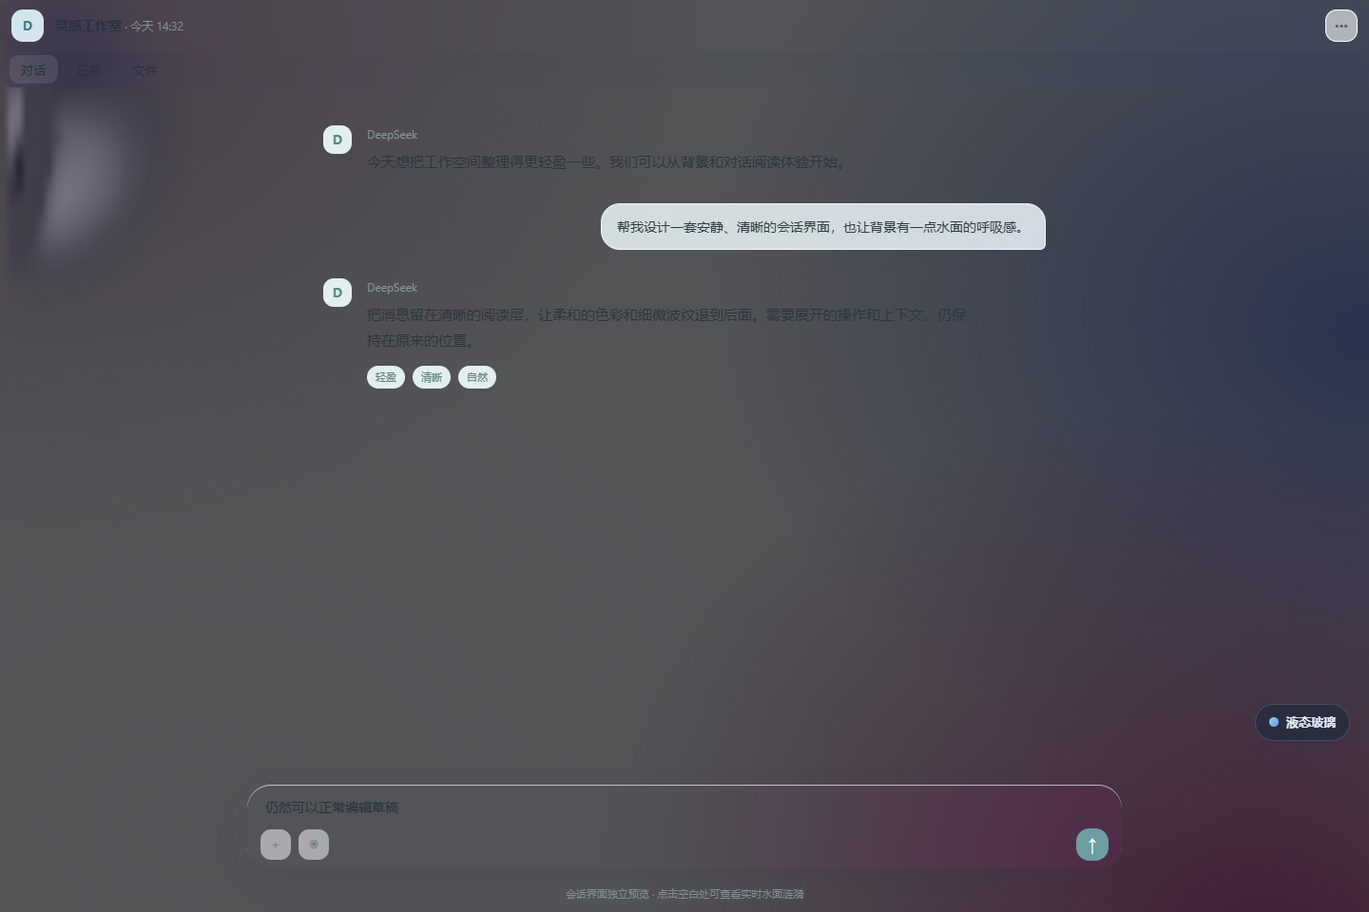
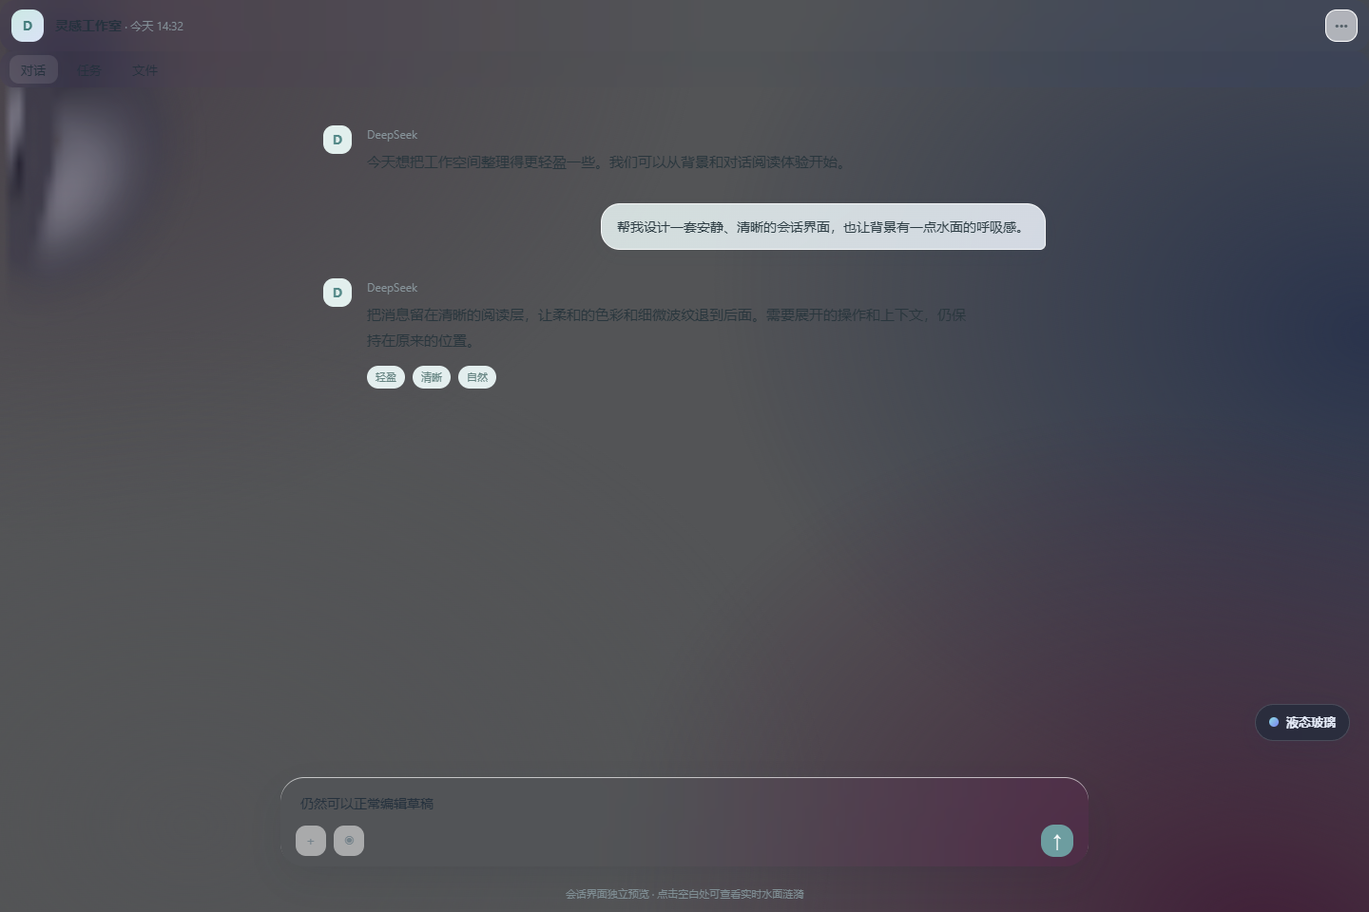
Release 0.6.2: style the native composer without nested glass frames

Changed region(s): [[0.1875, 0.875, 0.3125, 0.9375], [0.75, 0.9062, 0.8125, 0.9688]]

diff --git a/lib/client.js b/lib/client.js
@@ -446,7 +446,7 @@ body[data-dsh-session-design] [data-conversation-tabs] [role=tab]{min-height:30p
 body[data-dsh-session-design] [data-conversation-tabs] [role=tab][aria-selected=true]{color:var(--dsh-session-ink);background:#ffffff9c;box-shadow:0 2px 7px #14243214}
 body[data-dsh-session-design][data-ds-dark-theme] [data-conversation-tabs] [role=tab][aria-selected=true]{background:#ffffff18}
 body[data-dsh-session-design] [data-conversation-region=chat]{padding-inline:clamp(16px,4vw,64px)}
-body[data-dsh-session-design] [data-conversation-region=composer]{margin-inline:auto;margin-bottom:18px;width:min(920px,calc(100% - 40px));padding:8px 14px;border:1px solid var(--dsh-session-line);border-radius:25px;background:var(--dsh-session-glass);backdrop-filter:blur(24px) saturate(155%);box-shadow:0 14px 42px #14252e18,inset 0 1px 0 #ffffffa8}
+body[data-dsh-session-design] [data-composer-card][data-conversation-region=composer]{border:1px solid var(--dsh-session-line);border-radius:25px;background:var(--dsh-session-glass);backdrop-filter:blur(24px) saturate(155%);box-shadow:0 14px 42px #14252e18,inset 0 1px 0 #ffffffa8}
 body[data-dsh-session-design] [data-conversation-region=composer] [contenteditable=true]{color:var(--dsh-session-ink)}
 body[data-dsh-session-design] [data-conversation-region=composer] button[aria-label*=Send],body[data-dsh-session-design] [data-conversation-region=composer] button[aria-label*=发送]{border-radius:14px}
 body[data-dsh-session-design] [data-chat-flow-kind=user]>div,body[data-dsh-session-design] [data-chat-flow-kind=steering]>div{max-width:min(78%,680px);padding:12px 16px;border:1px solid #ffffffba;border-radius:20px 20px 6px 20px;background:linear-gradient(145deg,#e7f3f1dc,#eaf0f9dd);box-shadow:0 6px 20px #27444b0c}
@@ -634,21 +634,17 @@ body[data-ds-dark-theme][${FLUID_ATTR}]{${colorRules(true)}}` + CSS;
   }
   function discoverSession() {
     if (!config.sessionDesign) return;
-    const editor = document.querySelector('[contenteditable="true"],[role="textbox"],textarea');
-    if (!editor) return;
-    const viewport = innerWidth * innerHeight;
-    let composer;
-    let scrollRegion;
-    let current = editor;
-    for (let depth = 0; current?.parentElement && depth < 9; depth++) {
-      current = current.parentElement;
-      const rect = current.getBoundingClientRect();
-      if (!composer && rect.width >= Math.min(240, innerWidth * .32) && rect.height >= 64 && rect.height <= Math.min(280, innerHeight * .42)) composer = current;
-      if (composer) break;
+    const composer = document.querySelector('[data-composer-card]');
+    for (const node of sessionMarked) {
+      if (node !== composer && node.getAttribute('data-conversation-region') === 'composer') node.removeAttribute('data-conversation-region');
+      if (!node.isConnected) sessionMarked.delete(node);
     }
+    if (!composer) return;
+    const viewport = innerWidth * innerHeight;
+    let scrollRegion;
     const composerRect = composer?.getBoundingClientRect();
     if (composerRect) for (const candidate of document.querySelectorAll('main,section,div')) {
-      if (candidate.contains(editor) || candidate.contains(composer)) continue;
+      if (candidate.contains(composer) || composer.contains(candidate)) continue;
       const rect = candidate.getBoundingClientRect();
       const overflow = getComputedStyle(candidate).overflowY;
       if (rect.width < 180 || rect.height < innerHeight * .24 || rect.width * rect.height < viewport * .04 || rect.top >= composerRect.top || !/auto|scroll|overlay/.test(overflow)) continue;
@@ -685,8 +681,12 @@ body[data-ds-dark-theme][${FLUID_ATTR}]{${colorRules(true)}}` + CSS;
     if (!document.body || (!config.enabled && !config.sessionDesign)) return;
     if (config.sessionDesign) discoverSession();
     if (!config.enabled) return;
-    discoverSession();
-    for (const node of marked) if (!node.isConnected) marked.delete(node);
+    const composer = document.querySelector('[data-composer-card]');
+    const overlapsComposer = node => composer && node !== composer && (node.contains(composer) || composer.contains(node));
+    for (const node of marked) if (!node.isConnected || overlapsComposer(node)) {
+      node.removeAttribute(SURFACE_ATTR);
+      marked.delete(node);
+    }
     // ponytail: bound one scan to 1,600 nodes / 100 surfaces; expand only if real layouts need it.
     const walker = document.createTreeWalker(document.body, NodeFilter.SHOW_ELEMENT, {
       acceptNode(node) {
@@ -697,7 +697,7 @@ body[data-ds-dark-theme][${FLUID_ATTR}]{${colorRules(true)}}` + CSS;
     let node;
     let inspected = 0;
     while ((node = walker.nextNode()) && ++inspected <= 1600 && marked.size < 100) {
-      if (marked.has(node)) continue;
+      if (marked.has(node) || overlapsComposer(node)) continue;
       const rect = node.getBoundingClientRect();
       if (rect.width < 72 || rect.height < 32 || rect.width * rect.height < 4000) continue;
       const css = getComputedStyle(node);

diff --git a/lib/glass-client.js b/lib/glass-client.js
@@ -443,7 +443,7 @@ body[data-dsh-session-design] [data-conversation-tabs] [role=tab]{min-height:30p
 body[data-dsh-session-design] [data-conversation-tabs] [role=tab][aria-selected=true]{color:var(--dsh-session-ink);background:#ffffff9c;box-shadow:0 2px 7px #14243214}
 body[data-dsh-session-design][data-ds-dark-theme] [data-conversation-tabs] [role=tab][aria-selected=true]{background:#ffffff18}
 body[data-dsh-session-design] [data-conversation-region=chat]{padding-inline:clamp(16px,4vw,64px)}
-body[data-dsh-session-design] [data-conversation-region=composer]{margin-inline:auto;margin-bottom:18px;width:min(920px,calc(100% - 40px));padding:8px 14px;border:1px solid var(--dsh-session-line);border-radius:25px;background:var(--dsh-session-glass);backdrop-filter:blur(24px) saturate(155%);box-shadow:0 14px 42px #14252e18,inset 0 1px 0 #ffffffa8}
+body[data-dsh-session-design] [data-composer-card][data-conversation-region=composer]{border:1px solid var(--dsh-session-line);border-radius:25px;background:var(--dsh-session-glass);backdrop-filter:blur(24px) saturate(155%);box-shadow:0 14px 42px #14252e18,inset 0 1px 0 #ffffffa8}
 body[data-dsh-session-design] [data-conversation-region=composer] [contenteditable=true]{color:var(--dsh-session-ink)}
 body[data-dsh-session-design] [data-conversation-region=composer] button[aria-label*=Send],body[data-dsh-session-design] [data-conversation-region=composer] button[aria-label*=发送]{border-radius:14px}
 body[data-dsh-session-design] [data-chat-flow-kind=user]>div,body[data-dsh-session-design] [data-chat-flow-kind=steering]>div{max-width:min(78%,680px);padding:12px 16px;border:1px solid #ffffffba;border-radius:20px 20px 6px 20px;background:linear-gradient(145deg,#e7f3f1dc,#eaf0f9dd);box-shadow:0 6px 20px #27444b0c}
@@ -631,21 +631,17 @@ body[data-ds-dark-theme][${FLUID_ATTR}]{${colorRules(true)}}` + CSS;
   }
   function discoverSession() {
     if (!config.sessionDesign) return;
-    const editor = document.querySelector('[contenteditable="true"],[role="textbox"],textarea');
-    if (!editor) return;
-    const viewport = innerWidth * innerHeight;
-    let composer;
-    let scrollRegion;
-    let current = editor;
-    for (let depth = 0; current?.parentElement && depth < 9; depth++) {
-      current = current.parentElement;
-      const rect = current.getBoundingClientRect();
-      if (!composer && rect.width >= Math.min(240, innerWidth * .32) && rect.height >= 64 && rect.height <= Math.min(280, innerHeight * .42)) composer = current;
-      if (composer) break;
+    const composer = document.querySelector('[data-composer-card]');
+    for (const node of sessionMarked) {
+      if (node !== composer && node.getAttribute('data-conversation-region') === 'composer') node.removeAttribute('data-conversation-region');
+      if (!node.isConnected) sessionMarked.delete(node);
     }
+    if (!composer) return;
+    const viewport = innerWidth * innerHeight;
+    let scrollRegion;
     const composerRect = composer?.getBoundingClientRect();
     if (composerRect) for (const candidate of document.querySelectorAll('main,section,div')) {
-      if (candidate.contains(editor) || candidate.contains(composer)) continue;
+      if (candidate.contains(composer) || composer.contains(candidate)) continue;
       const rect = candidate.getBoundingClientRect();
       const overflow = getComputedStyle(candidate).overflowY;
       if (rect.width < 180 || rect.height < innerHeight * .24 || rect.width * rect.height < viewport * .04 || rect.top >= composerRect.top || !/auto|scroll|overlay/.test(overflow)) continue;
@@ -682,8 +678,12 @@ body[data-ds-dark-theme][${FLUID_ATTR}]{${colorRules(true)}}` + CSS;
     if (!document.body || (!config.enabled && !config.sessionDesign)) return;
     if (config.sessionDesign) discoverSession();
     if (!config.enabled) return;
-    discoverSession();
-    for (const node of marked) if (!node.isConnected) marked.delete(node);
+    const composer = document.querySelector('[data-composer-card]');
+    const overlapsComposer = node => composer && node !== composer && (node.contains(composer) || composer.contains(node));
+    for (const node of marked) if (!node.isConnected || overlapsComposer(node)) {
+      node.removeAttribute(SURFACE_ATTR);
+      marked.delete(node);
+    }
     // ponytail: bound one scan to 1,600 nodes / 100 surfaces; expand only if real layouts need it.
     const walker = document.createTreeWalker(document.body, NodeFilter.SHOW_ELEMENT, {
       acceptNode(node) {
@@ -694,7 +694,7 @@ body[data-ds-dark-theme][${FLUID_ATTR}]{${colorRules(true)}}` + CSS;
     let node;
     let inspected = 0;
     while ((node = walker.nextNode()) && ++inspected <= 1600 && marked.size < 100) {
-      if (marked.has(node)) continue;
+      if (marked.has(node) || overlapsComposer(node)) continue;
       const rect = node.getBoundingClientRect();
       if (rect.width < 72 || rect.height < 32 || rect.width * rect.height < 4000) continue;
       const css = getComputedStyle(node);

diff --git a/src/client.js b/src/client.js
@@ -218,7 +218,7 @@ body[data-dsh-session-design] [data-conversation-tabs] [role=tab]{min-height:30p
 body[data-dsh-session-design] [data-conversation-tabs] [role=tab][aria-selected=true]{color:var(--dsh-session-ink);background:#ffffff9c;box-shadow:0 2px 7px #14243214}
 body[data-dsh-session-design][data-ds-dark-theme] [data-conversation-tabs] [role=tab][aria-selected=true]{background:#ffffff18}
 body[data-dsh-session-design] [data-conversation-region=chat]{padding-inline:clamp(16px,4vw,64px)}
-body[data-dsh-session-design] [data-conversation-region=composer]{margin-inline:auto;margin-bottom:18px;width:min(920px,calc(100% - 40px));padding:8px 14px;border:1px solid var(--dsh-session-line);border-radius:25px;background:var(--dsh-session-glass);backdrop-filter:blur(24px) saturate(155%);box-shadow:0 14px 42px #14252e18,inset 0 1px 0 #ffffffa8}
+body[data-dsh-session-design] [data-composer-card][data-conversation-region=composer]{border:1px solid var(--dsh-session-line);border-radius:25px;background:var(--dsh-session-glass);backdrop-filter:blur(24px) saturate(155%);box-shadow:0 14px 42px #14252e18,inset 0 1px 0 #ffffffa8}
 body[data-dsh-session-design] [data-conversation-region=composer] [contenteditable=true]{color:var(--dsh-session-ink)}
 body[data-dsh-session-design] [data-conversation-region=composer] button[aria-label*=Send],body[data-dsh-session-design] [data-conversation-region=composer] button[aria-label*=发送]{border-radius:14px}
 body[data-dsh-session-design] [data-chat-flow-kind=user]>div,body[data-dsh-session-design] [data-chat-flow-kind=steering]>div{max-width:min(78%,680px);padding:12px 16px;border:1px solid #ffffffba;border-radius:20px 20px 6px 20px;background:linear-gradient(145deg,#e7f3f1dc,#eaf0f9dd);box-shadow:0 6px 20px #27444b0c}
@@ -406,21 +406,17 @@ body[data-ds-dark-theme][${FLUID_ATTR}]{${colorRules(true)}}` + CSS;
   }
   function discoverSession() {
     if (!config.sessionDesign) return;
-    const editor = document.querySelector('[contenteditable="true"],[role="textbox"],textarea');
-    if (!editor) return;
-    const viewport = innerWidth * innerHeight;
-    let composer;
-    let scrollRegion;
-    let current = editor;
-    for (let depth = 0; current?.parentElement && depth < 9; depth++) {
-      current = current.parentElement;
-      const rect = current.getBoundingClientRect();
-      if (!composer && rect.width >= Math.min(240, innerWidth * .32) && rect.height >= 64 && rect.height <= Math.min(280, innerHeight * .42)) composer = current;
-      if (composer) break;
+    const composer = document.querySelector('[data-composer-card]');
+    for (const node of sessionMarked) {
+      if (node !== composer && node.getAttribute('data-conversation-region') === 'composer') node.removeAttribute('data-conversation-region');
+      if (!node.isConnected) sessionMarked.delete(node);
     }
+    if (!composer) return;
+    const viewport = innerWidth * innerHeight;
+    let scrollRegion;
     const composerRect = composer?.getBoundingClientRect();
     if (composerRect) for (const candidate of document.querySelectorAll('main,section,div')) {
-      if (candidate.contains(editor) || candidate.contains(composer)) continue;
+      if (candidate.contains(composer) || composer.contains(candidate)) continue;
       const rect = candidate.getBoundingClientRect();
       const overflow = getComputedStyle(candidate).overflowY;
       if (rect.width < 180 || rect.height < innerHeight * .24 || rect.width * rect.height < viewport * .04 || rect.top >= composerRect.top || !/auto|scroll|overlay/.test(overflow)) continue;
@@ -457,8 +453,12 @@ body[data-ds-dark-theme][${FLUID_ATTR}]{${colorRules(true)}}` + CSS;
     if (!document.body || (!config.enabled && !config.sessionDesign)) return;
     if (config.sessionDesign) discoverSession();
     if (!config.enabled) return;
-    discoverSession();
-    for (const node of marked) if (!node.isConnected) marked.delete(node);
+    const composer = document.querySelector('[data-composer-card]');
+    const overlapsComposer = node => composer && node !== composer && (node.contains(composer) || composer.contains(node));
+    for (const node of marked) if (!node.isConnected || overlapsComposer(node)) {
+      node.removeAttribute(SURFACE_ATTR);
+      marked.delete(node);
+    }
     // ponytail: bound one scan to 1,600 nodes / 100 surfaces; expand only if real layouts need it.
     const walker = document.createTreeWalker(document.body, NodeFilter.SHOW_ELEMENT, {
       acceptNode(node) {
@@ -469,7 +469,7 @@ body[data-ds-dark-theme][${FLUID_ATTR}]{${colorRules(true)}}` + CSS;
     let node;
     let inspected = 0;
     while ((node = walker.nextNode()) && ++inspected <= 1600 && marked.size < 100) {
-      if (marked.has(node)) continue;
+      if (marked.has(node) || overlapsComposer(node)) continue;
       const rect = node.getBoundingClientRect();
       if (rect.width < 72 || rect.height < 32 || rect.width * rect.height < 4000) continue;
       const css = getComputedStyle(node);

diff --git a/test/session-fixture.html b/test/session-fixture.html
@@ -18,6 +18,6 @@
 <article class="user">帮我设计一套安静、清晰的会话界面，也让背景有一点水面的呼吸感。</article>
 <article class="assistant"><span class="avatar">D</span><div><div class="speaker">DeepSeek</div><div class="message">把消息留在清晰的阅读层，让柔和的色彩和细微波纹退到后面。需要展开的操作和上下文，仍保持在原来的位置。</div><div class="tags"><span>轻盈</span><span>清晰</span><span>自然</span></div></div></article>
 </div></section>
-<div class="seat"><div class="draft" contenteditable="true" role="textbox" aria-label="输入消息">继续对话…</div><div class="tools"><div class="toolgroup"><button class="tool" aria-label="添加附件">＋</button><button class="tool" aria-label="选择模式">◉</button></div><button class="send" aria-label="发送消息">↑</button></div></div>
+<div class="seat" data-composer-card><div class="draft" contenteditable="true" role="textbox" aria-label="输入消息">继续对话…</div><div class="tools"><div class="toolgroup"><button class="tool" aria-label="添加附件">＋</button><button class="tool" aria-label="选择模式">◉</button></div><button class="send" aria-label="发送消息">↑</button></div></div>
 <div class="footnote">会话界面独立预览 · 点击空白处可查看实时水面涟漪</div>
 </main></body></html>

diff --git a/README.md b/README.md
@@ -2,21 +2,21 @@
 
 A maintained compatibility fork of [Ink-bai5844/dsh-liquid-glass-fluid-background](https://github.com/Ink-bai5844/dsh-liquid-glass-fluid-background), with the original MIT license preserved. Maintained by **gtggdd4mzb-source**. [中文说明](README.zh.md)
 
-Version **0.6.1** targets **DeepSeek Harness 0.2.2-rc.5** (Desktop and Web). It adds a damped 2D finite-difference water surface activated by blank-background clicks, adjustable ripple strength, and an iOS-inspired skin for DSH's session header, transcript and composer. Blank transcript space is interactive, while message editors and controls keep their normal behavior. The existing palette studio, moving color field, rounded-edge SVG refraction and whale startup animation remain available. Water waves are numerically simulated and shaded from their surface normals; the effect is a bounded browser approximation, not physical light transport or Apple's private renderer.
+Version **0.6.2** targets **DeepSeek Harness 0.2.2-rc.5** (Desktop and Web). This patch styles the host's native input card in place, preserves its layout and prevents glass decoration on nested composer wrappers. It keeps the damped 2D finite-difference water surface activated by blank-background clicks, adjustable ripple strength, and an iOS-inspired skin for DSH's session header, transcript and composer. Blank transcript space is interactive, while message editors and controls keep their normal behavior. The existing palette studio, moving color field, rounded-edge SVG refraction and whale startup animation remain available. Water waves are numerically simulated and shaded from their surface normals; the effect is a bounded browser approximation, not physical light transport or Apple's private renderer.
 
 ![DSH 0.2.2-rc.5 running the skin](assets/dsh-home.png)
 ![Settings on the real DSH frontend](assets/dsh-settings.png)
 
 These screenshots show the actual DSH 0.2.2-rc.5 Web frontend started from the installed Desktop bundle in a clean isolated profile. The additional `preview-light.png` / `preview-dark.png` images show the included test fixture, not the host application.
 
-The session-style screenshots and interactive preview use DSH 0.2.2-rc.5's actual semantic DOM markers with synthetic test messages; they are explicitly not captures of the Harness application.
+The session-style screenshots and interactive preview use synthetic host-shaped layouts and test messages; they are not captures of the Harness application.
 
 ## Install
 
 In the native Desktop app, install the release tarball from the Plugins page (the desktop profile is managed by Electron). In a Web profile, use the current Harness CLI:
 
 ```sh
-dsh plugin --profile web add https://github.com/gtggdd4mzb-source/dsh-liquid-glass-fluid-background/releases/download/v0.6.1/dsh-liquid-glass-fluid-background-0.6.1.tgz
+dsh plugin --profile web add https://github.com/gtggdd4mzb-source/dsh-liquid-glass-fluid-background/releases/download/v0.6.2/dsh-liquid-glass-fluid-background-0.6.2.tgz
 ```
 
 Fully restart Harness after the first installation. Open the **Liquid Glass** capsule near the lower-right corner.

diff --git a/COMPATIBILITY.md b/COMPATIBILITY.md
@@ -1,6 +1,6 @@
 # Compatibility evidence
 
-Validation date: 2026-11-26. Current plugin: **0.6.0**. Target: installed **DeepSeek Harness Desktop 0.2.2-rc.5**, containing **@deepseek-ai/dsh 0.2.2-rc.5** and **@deepseek-ai/cordis 4.1.0**. The unrelated global CLI was 0.1.2-rc.1 and was not used as the target.
+Validation date: 2026-11-27. Current plugin: **0.6.2**. Target: installed **DeepSeek Harness Desktop 0.2.2-rc.5**, containing **@deepseek-ai/dsh 0.2.2-rc.5** and **@deepseek-ai/cordis 4.1.0**. The unrelated global CLI was 0.1.2-rc.1 and was not used as the target.
 
 Verified:
 
@@ -16,5 +16,8 @@ Verified:
 - Native Windows 0.5.0: the installed client hash matched the built file. Relaunched the actual Desktop application, inspected the startup toggle and replay button, replayed the whale animation on screen, and confirmed it automatically returned to the working application. The user's existing glass preferences were preserved.
 - 0.6.0 session-design correction: the browser fixture no longer contains plugin-owned conversation markers. The client now discovers the real editor, composer, scrollable transcript, header, tabs and right-aligned user bubbles in the host DOM; the session skin remains independent of the glass master switch and removes only its own markers when disabled.
 - Native Windows 0.6.0: the existing Desktop process (0.2.2-rc.5) loaded the session settings and already-installed 0.6.0. The live conversation DOM exposed none of the fixture's `data-conversation-*` markers, confirming why the prior session skin was incomplete. Clicking empty transcript space produced a visible ripple in the actual Harness window. The new DOM discovery implementation still requires a fresh real-window check after reinstall.
+
+- 0.6.2 native composer correction: a host-shaped regression with nested wrappers verifies only the native card receives the composer skin, preserves width/padding, excludes wrapper/child glass surfaces, and survives 390/760/1280/1536 widths, tall drafts, card replacement, toggles, runtime replacement and disposal.
+- Native Windows 0.6.2 runtime: patched built files were applied to the existing installed 0.6.0 package and remounted through the host plugin switch. The live input card had one surface after switching to another existing conversation, maximizing/restoring, and returning to the original conversation. Package-manager upgrade to 0.6.2 was not used for this check; no private desktop captures or conversations are included in the release.
 
 Scope: this evidence verifies clean installation, real-host Web startup, native Windows Desktop display, plugin management and browser behavior. It does not claim a tour of every authenticated DSH screen or compatibility with every other installed theme, future Harness version, operating system or browser. Surface detection intentionally has a bounded budget and may leave unmatched regions unstyled.

diff --git a/README.zh.md b/README.zh.md
@@ -2,7 +2,7 @@
 
 这是 [Ink-bai5844 原插件](https://github.com/Ink-bai5844/dsh-liquid-glass-fluid-background) 的维护分支，保留原作者署名与 MIT 许可，由 **gtggdd4mzb-source** 维护。[English](README.md)
 
-**0.6.1** 面向 **DSH 0.2.2-rc.5 桌面端和 Web 端**。修复会话消息区空白处点击不触发涟漪的问题；编辑框、按钮和链接仍保留原有交互。会话皮肤会识别真实 DSH 页面结构，不再依赖测试预览专用标记。之前版本的四色调色盘、流动背景、边缘折射和鲸鱼启动动画继续保留。折射与波纹高光均为网页端数值/绘制近似，不是 iOS 私有渲染器或光线追踪；模拟计算水面高度并按法线着色，不会改变宿主消息内容或输入逻辑。
+**0.6.2** 面向 **DSH 0.2.2-rc.5 桌面端和 Web 端**。直接修改原生输入卡片的玻璃材质，保留原有宽度与工具栏布局，修复父子容器重复装饰导致的嵌套边框；保留会话消息区空白处点击涟漪修复。编辑框、按钮和链接仍保留原有交互。会话皮肤会识别真实 DSH 页面结构，不再依赖测试预览专用标记。之前版本的四色调色盘、流动背景、边缘折射和鲸鱼启动动画继续保留。折射与波纹高光均为网页端数值/绘制近似，不是 iOS 私有渲染器或光线追踪；模拟计算水面高度并按法线着色，不会改变宿主消息内容或输入逻辑。
 
 ![液态玻璃 DSH 会话界面预览](assets/session-light.png)
 ![液态玻璃 DSH 深色会话界面预览](assets/session-dark.png)
@@ -12,14 +12,14 @@
 
 以上为桌面安装包附带的 DSH 0.2.2-rc.5 Web 前端在干净隔离 profile 中的真实截图。另附的 `preview-light.png` / `preview-dark.png` 来自测试演示页，不是宿主运行截图。
 
-会话样式的 `session-light.png` / `session-dark.png` 与交互预览 HTML 使用 DSH 0.2.2-rc.5 的真实 DOM 标记制作，但内容为测试对话，不是 Harness 截图。
+会话样式的 `session-light.png` / `session-dark.png` 与交互预览 HTML 使用模拟宿主结构与测试对话制作，不是 Harness 实际窗口截图。
 
 ## 安装
 
 桌面端请在“插件”页选择版本发布页的安装包；desktop profile 由 Electron 管理。Web 端可用当前 DSH 命令行安装：
 
 ```sh
-dsh plugin --profile web add https://github.com/gtggdd4mzb-source/dsh-liquid-glass-fluid-background/releases/download/v0.6.1/dsh-liquid-glass-fluid-background-0.6.1.tgz
+dsh plugin --profile web add https://github.com/gtggdd4mzb-source/dsh-liquid-glass-fluid-background/releases/download/v0.6.2/dsh-liquid-glass-fluid-background-0.6.2.tgz
 ```
 
 首次安装后完全退出并重启 DSH，在右下方打开“液态玻璃”。

diff --git a/CHANGELOG.md b/CHANGELOG.md
@@ -1,5 +1,12 @@
 # Changelog
 
+## 0.6.2 — 2026-11-27
+
+- Style the native `data-composer-card` directly instead of choosing a wrapper by size.
+- Preserve the original input width, spacing and toolbar layout; exclude composer ancestors and descendants from glass-surface discovery.
+- Clear stale composer markers when switching conversations.
+- Add regression coverage for nested host wrappers, window sizes, tall drafts, card replacement, toggles and disposal.
+
 ## 0.6.1 — 2026-11-26
 
 - Let blank clicks in the conversation transcript create water ripples; keep editor, buttons, links and composer controls excluded.
